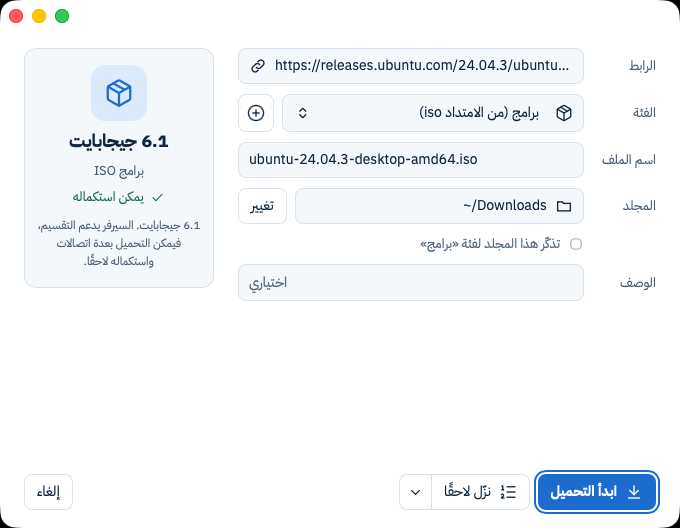
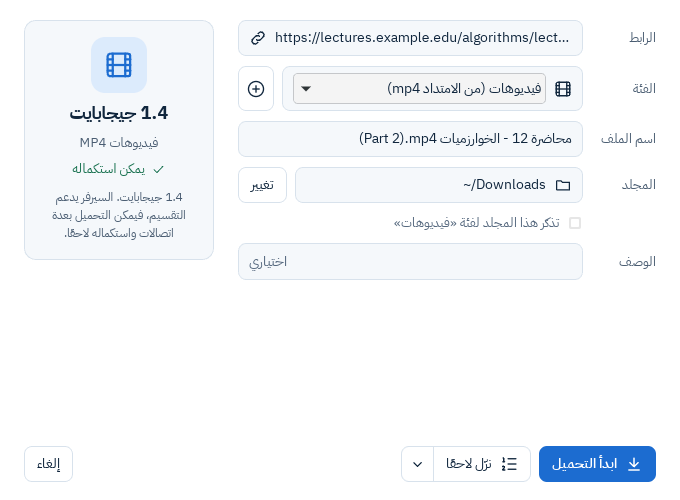
docs(release): screenshots from CI after the M5.5 fixes, and the Download file info window in place of the drop box

diff --git a/docs/releases/v1.0.0.md b/docs/releases/v1.0.0.md
@@ -15,10 +15,10 @@
 | ![النافذة الرئيسية بالعربية، الوضع الفاتح](https://raw.githubusercontent.com/motalim-ai/zajil-download-manager/v1.0.0/docs/screenshots/main-ar-light.png) | ![النافذة الرئيسية بالعربية، الوضع الداكن](https://raw.githubusercontent.com/motalim-ai/zajil-download-manager/v1.0.0/docs/screenshots/main-ar-dark.png) |
 | **نافذة التقدم بالأجزاء** | **نافذة «جودة الفيديو»** |
 | ![نافذة التقدم: الأجزاء والاتصالات](https://raw.githubusercontent.com/motalim-ai/zajil-download-manager/v1.0.0/docs/screenshots/progress-ar.png) | ![نافذة جودة الفيديو: الجودات والحجم واسم الملف](https://raw.githubusercontent.com/motalim-ai/zajil-download-manager/v1.0.0/docs/screenshots/video-quality-ar.png) |
-| **سلة الإسقاط العائمة** | **زر «نزّل الفيديو» فوق الفيديو (الإضافة)** |
-| ![سلة الإسقاط فوق النوافذ](https://raw.githubusercontent.com/motalim-ai/zajil-download-manager/v1.0.0/docs/screenshots/dropbox-ar.png) | ![زر نزّل الفيديو فوق فيديو تجريبي في المتصفح](https://raw.githubusercontent.com/motalim-ai/zajil-download-manager/v1.0.0/docs/screenshots/video-button-ar.png) |
+| **«معلومات ملف التحميل»** | **زر «نزّل الفيديو» فوق الفيديو (الإضافة)** |
+| ![نافذة معلومات ملف التحميل: الاسم والحجم والمجلد](https://raw.githubusercontent.com/motalim-ai/zajil-download-manager/v1.0.0/docs/screenshots/file-info-ar.png) | ![زر نزّل الفيديو فوق فيديو تجريبي في المتصفح](https://raw.githubusercontent.com/motalim-ai/zajil-download-manager/v1.0.0/docs/screenshots/video-button-ar.png) |
 | **«تحميل الموقع»** | **«تحميل بالجملة»** |
-| ![نافذة تحميل الموقع: صفحة البداية والعمق والملفات التي وُجدت](https://raw.githubusercontent.com/motalim-ai/zajil-download-manager/v1.0.0/docs/screenshots/grab-ar.png) | ![نافذة التحميل بالجملة: النمط والروابط قبل إضافتها](https://raw.githubusercontent.com/motalim-ai/zajil-download-manager/v1.0.0/docs/screenshots/batch-ar.png) |
+| ![نافذة تحميل الموقع: الحدود، والملفات التي وُجدت قبل إضافتها، والمجلد](https://raw.githubusercontent.com/motalim-ai/zajil-download-manager/v1.0.0/docs/screenshots/grab-ar.png) | ![نافذة التحميل بالجملة: النمط والروابط قبل إضافتها](https://raw.githubusercontent.com/motalim-ai/zajil-download-manager/v1.0.0/docs/screenshots/batch-ar.png) |
 
 ## ما يفعله زاجِل
 
@@ -155,10 +155,10 @@ Real screenshots from CI (test data only):
 | ![The main window in Arabic, light](https://raw.githubusercontent.com/motalim-ai/zajil-download-manager/v1.0.0/docs/screenshots/main-ar-light.png) | ![The main window in Arabic, dark](https://raw.githubusercontent.com/motalim-ai/zajil-download-manager/v1.0.0/docs/screenshots/main-ar-dark.png) |
 | **The progress window with its parts** | **The «Video quality» window** |
 | ![The progress window: its parts and connections](https://raw.githubusercontent.com/motalim-ai/zajil-download-manager/v1.0.0/docs/screenshots/progress-ar.png) | ![The Video quality window: the formats, their size and the file name](https://raw.githubusercontent.com/motalim-ai/zajil-download-manager/v1.0.0/docs/screenshots/video-quality-ar.png) |
-| **The floating drop box** | **The «Download video» button over a video (the extension)** |
-| ![The drop box above the windows](https://raw.githubusercontent.com/motalim-ai/zajil-download-manager/v1.0.0/docs/screenshots/dropbox-ar.png) | ![The Download video button over a test video in the browser](https://raw.githubusercontent.com/motalim-ai/zajil-download-manager/v1.0.0/docs/screenshots/video-button-ar.png) |
+| **«Download file info»** | **The «Download video» button over a video (the extension)** |
+| ![The Download file info window: the name, the size and the folder](https://raw.githubusercontent.com/motalim-ai/zajil-download-manager/v1.0.0/docs/screenshots/file-info-ar.png) | ![The Download video button over a test video in the browser](https://raw.githubusercontent.com/motalim-ai/zajil-download-manager/v1.0.0/docs/screenshots/video-button-ar.png) |
 | **«Site grabber»** | **«Batch download»** |
-| ![The Site grabber window: the start page, the depth and the files found](https://raw.githubusercontent.com/motalim-ai/zajil-download-manager/v1.0.0/docs/screenshots/grab-ar.png) | ![The Batch download window: the pattern and the links before they are added](https://raw.githubusercontent.com/motalim-ai/zajil-download-manager/v1.0.0/docs/screenshots/batch-ar.png) |
+| ![The Site grabber window: the limits, the files found before they are added, and the folder](https://raw.githubusercontent.com/motalim-ai/zajil-download-manager/v1.0.0/docs/screenshots/grab-ar.png) | ![The Batch download window: the pattern and the links before they are added](https://raw.githubusercontent.com/motalim-ai/zajil-download-manager/v1.0.0/docs/screenshots/batch-ar.png) |
 
 ## What Zajil does
 

diff --git a/CHANGELOG.md b/CHANGELOG.md
@@ -24,6 +24,17 @@ The first published release: 0.2.0 was a test draft that was never published. Si
 - fix(desktop): at a Windows session end, end the process once everything is saved (#218)
 - fix(grab): robots.txt escapes and cut lines, more local forms, the https twin's port, the start URL (#199) (#227)
 - fix(grab): --max-pages counts every page request, the rate is per host, include/exclude match decoded paths, and more (#199) (#232)
+- fix(desktop): a new speed limit is said to apply now, as it does (#106) (#235)
+- fix(extension): the sign-in notices name the button as it is, «Allow Zajil on sites» (#157) (#236)
+- fix(desktop): a category without a name shows its id, and a damaged categories file says why (#58) (#237)
+- fix(desktop): «start with the system» shows what the system holds after a failed change (#60) (#238)
+- fix(desktop): windows opened from a button load their page on Windows (#234)
+- fix(cli): zajil video formats lists a playlist's items with links that work (#150) (#240)
+- fix(core): a download starting over records that nothing is done before it empties its file (#163) (#241)
+- fix(extension): a captured download's strict cookies go only from a page of the same site (#92) (#242)
+- fix(desktop): the Mac menu works from any window, a moved file says so, Ctrl+, on Arabic (#98) (#239)
+- fix(desktop): on macOS, one Zajil per user through its own channel, not a socket in /tmp (#60) (#243)
+- fix(desktop): «Batch download» and «Site grabber» fit their window without a page scroll (#245)
 
 ### Documentation
 
@@ -34,6 +45,7 @@ The first published release: 0.2.0 was a test draft that was never published. Si
 ### Tests
 
 - test(core): the site-wait stop test stops the slow download once it has written (#224) (#225)
+- test(desktop): every window in the CI screenshots, with axe and its file names checked (M5.5) (#226)
 
 ### CI
 
